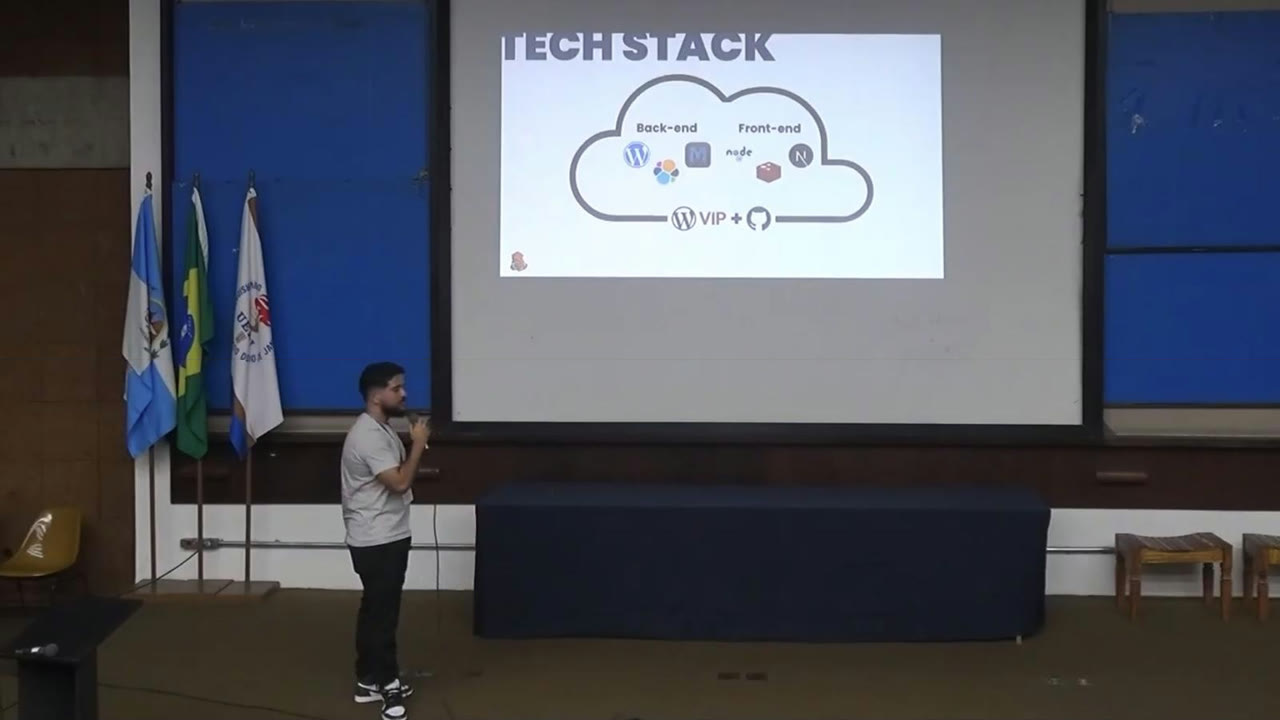
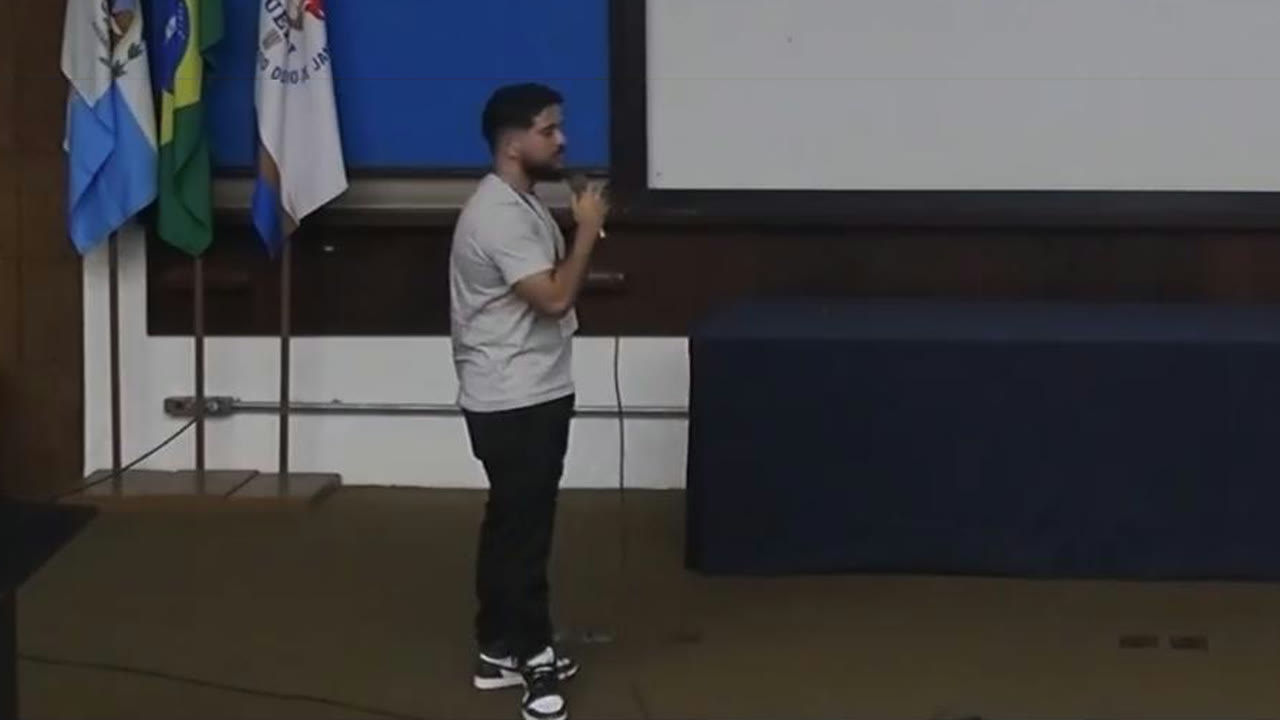
Use a tighter crop for the WordCamp Brasil frame

diff --git a/themes/carvalho/languages/pt_BR.l10n.php b/themes/carvalho/languages/pt_BR.l10n.php
@@ -39,7 +39,7 @@ return array(
         'The architecture and team culture decisions that made CNN Brasil one of the three largest news sites in Brazil.'
             => 'As decisões de arquitetura e de cultura de time que levaram a CNN Brasil ao grupo dos três maiores portais de notícias do país.',
         'Watch the talk' => 'Assistir à palestra',
-        'João Carvalho on stage at WordCamp Brasil 2025, next to a slide about the tech stack' => 'João Carvalho no palco do WordCamp Brasil 2025, ao lado de um slide sobre a stack de tecnologia',
+        'João Carvalho on stage at WordCamp Brasil 2025' => 'João Carvalho no palco do WordCamp Brasil 2025',
         'João Carvalho on stage at WordCamp US 2024, in Portland' => 'João Carvalho no palco do WordCamp US 2024, em Portland',
         'Read the recap' => 'Ler o resumo',
 

diff --git a/themes/carvalho/patterns/talks.php b/themes/carvalho/patterns/talks.php
@@ -13,7 +13,7 @@ $carvalho_talks = array(
         'event' => __('WordCamp Brasil, 2025', 'carvalho'),
         'about' => __('What CNN Brasil gained and what it faced when it moved its news site to headless. When to migrate and when not to.', 'carvalho'),
         'photo' => 'wordcamp-brasil-2025.jpg',
-        'alt' => __('João Carvalho on stage at WordCamp Brasil 2025, next to a slide about the tech stack', 'carvalho'),
+        'alt' => __('João Carvalho on stage at WordCamp Brasil 2025', 'carvalho'),
         'video' => 'https://www.youtube.com/watch?v=nVHpRDY_9qE',
         'recap' => home_url('/blog/mitos-e-verdades-resumo-da-minha-palestra-sobre-wordpress-headless/'),
     ),
